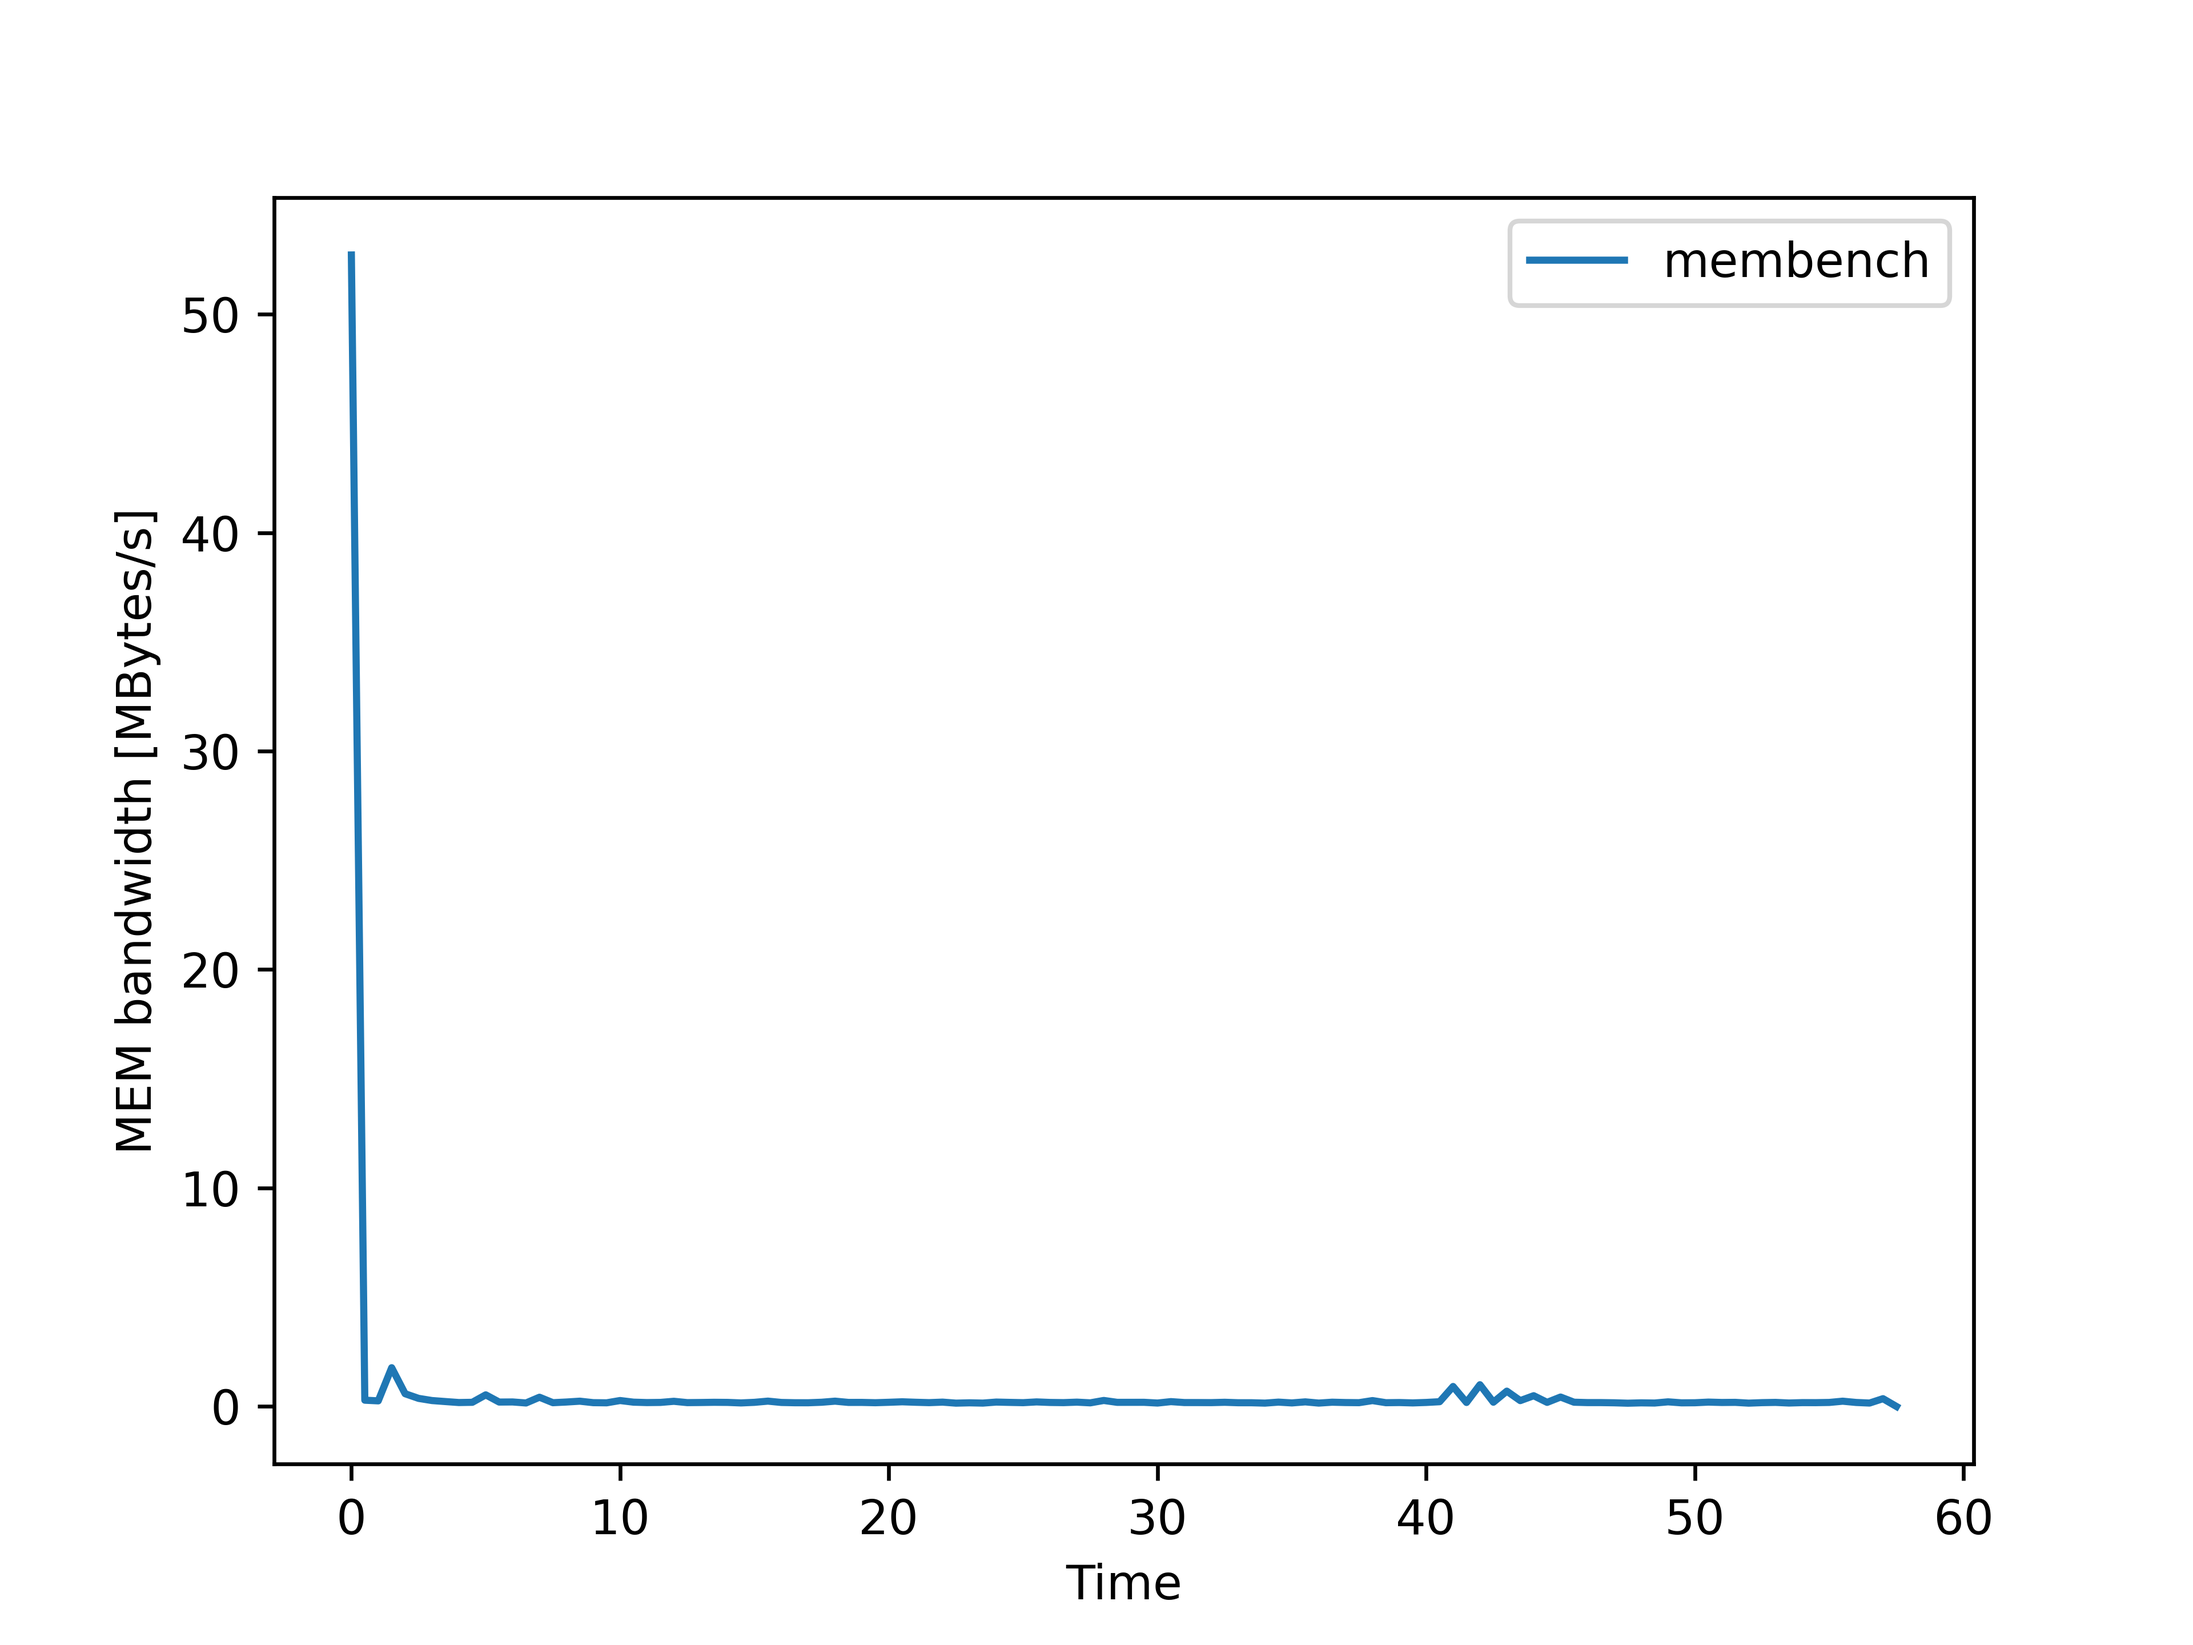
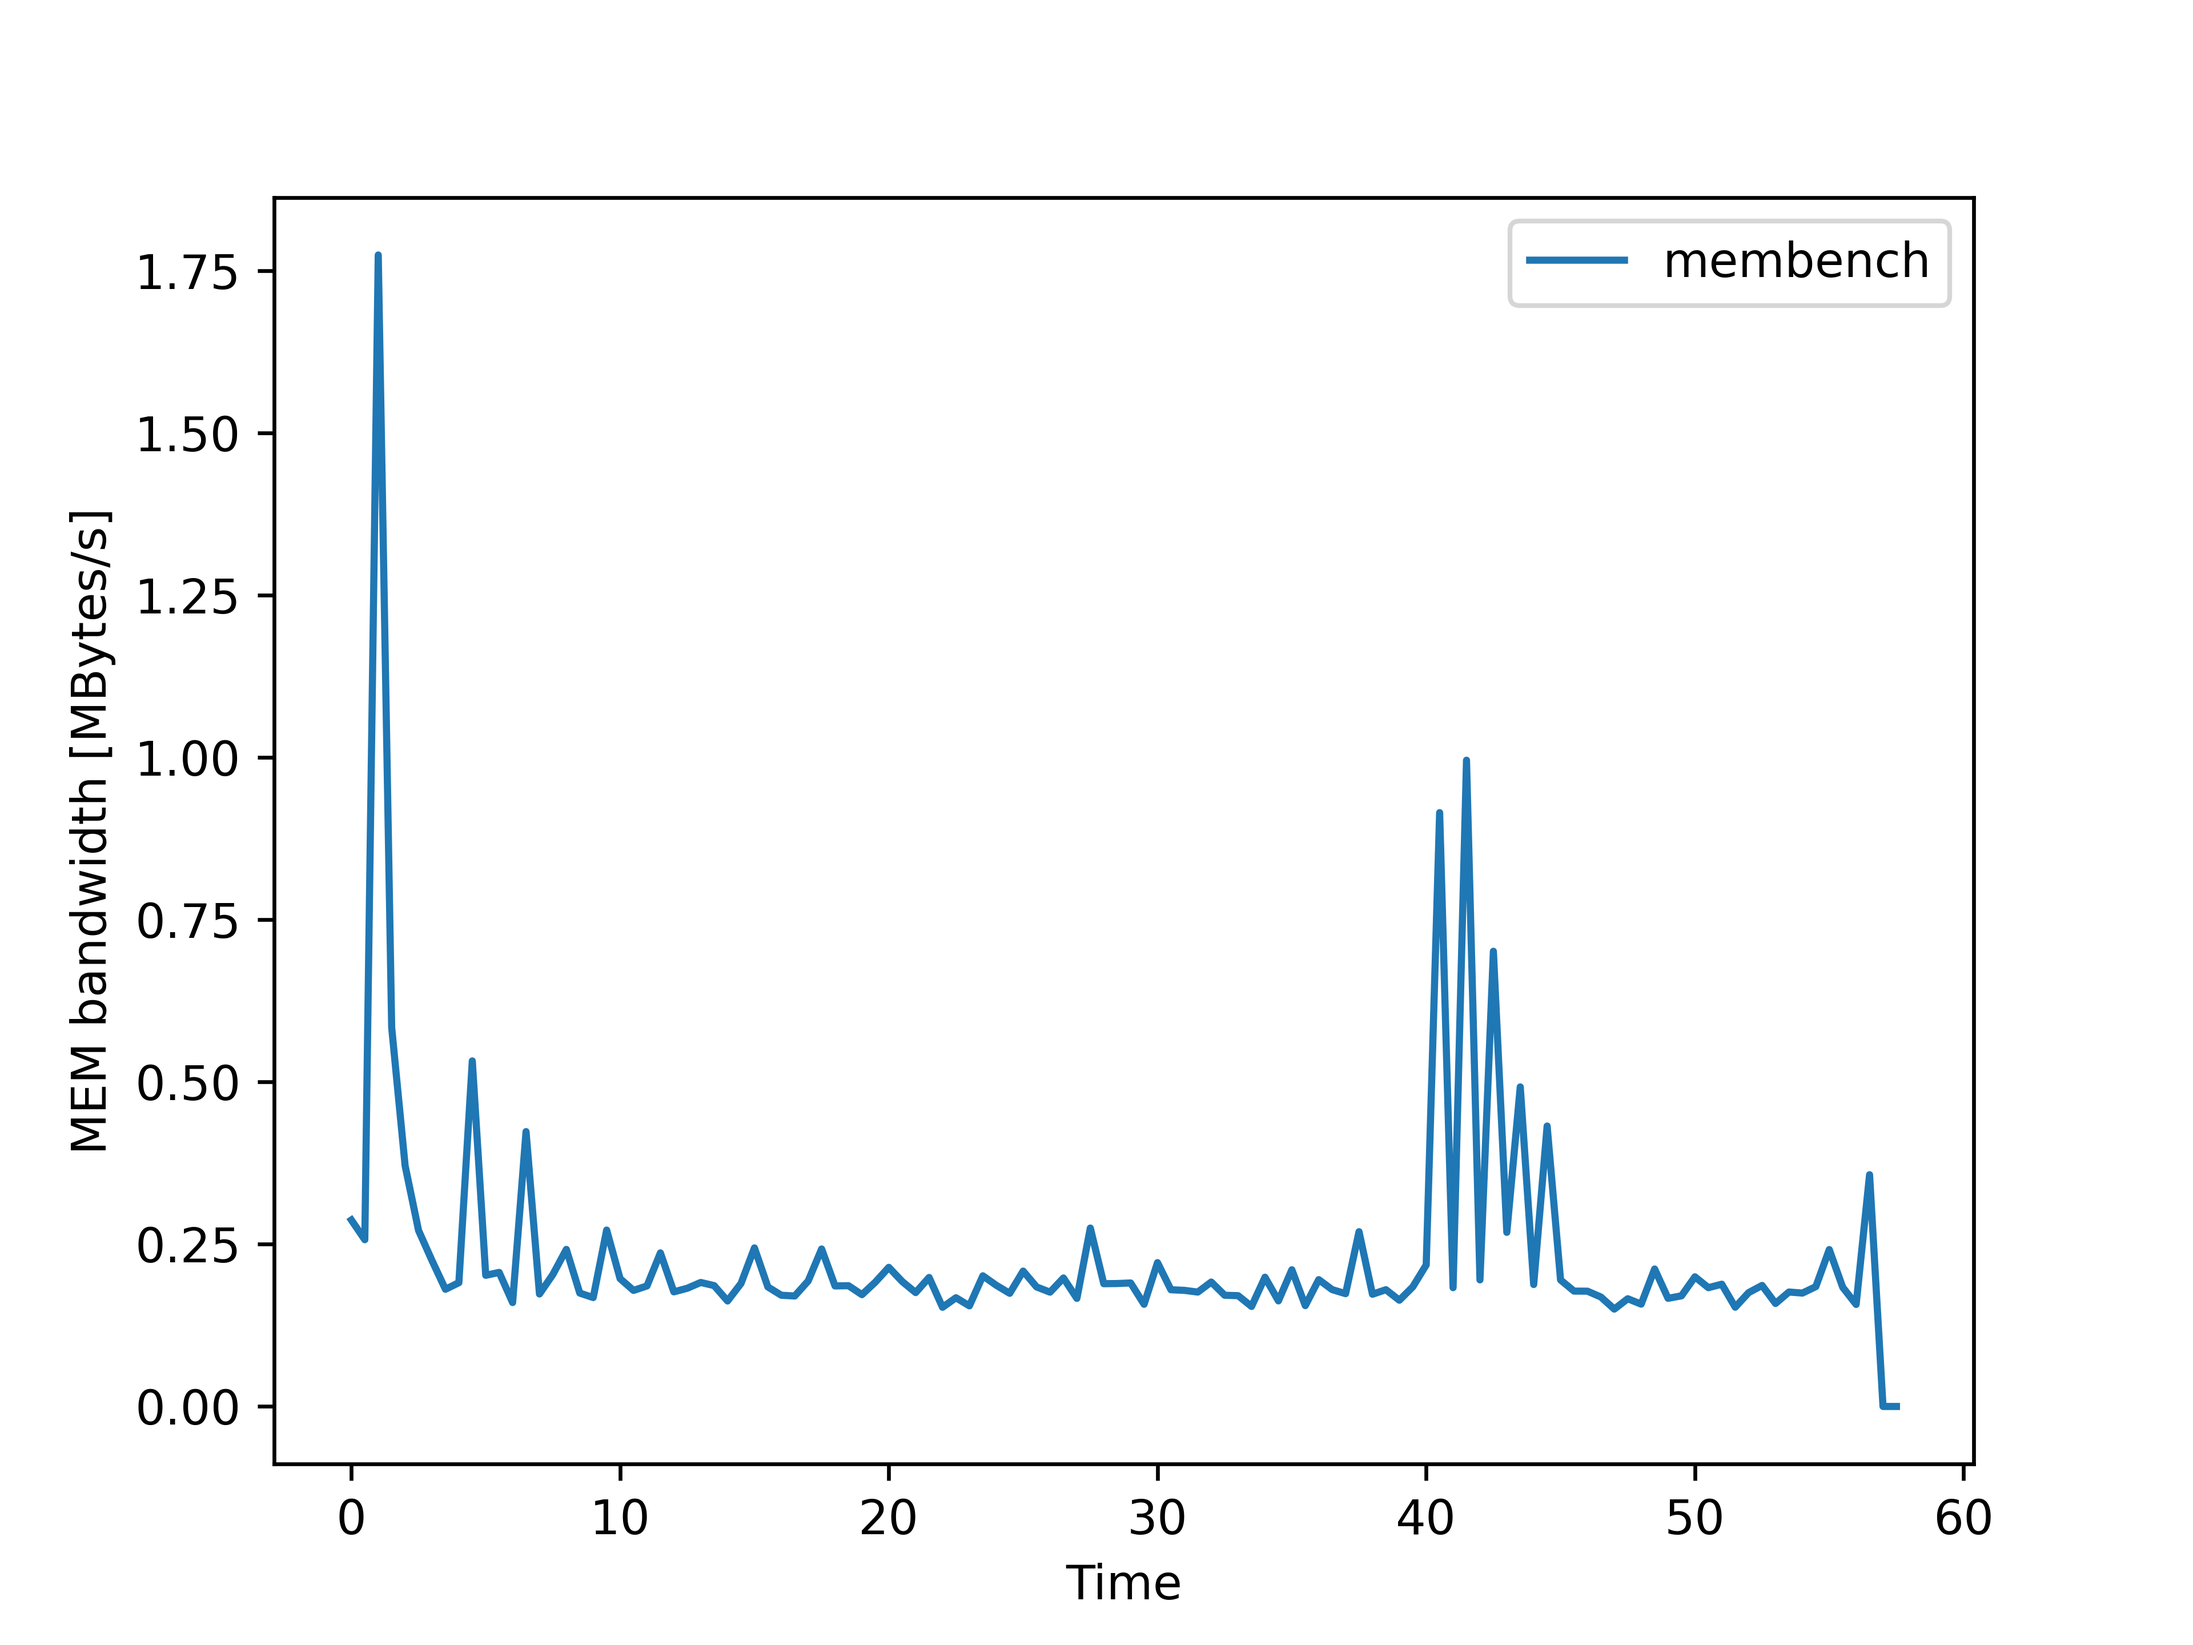
mod serial

diff --git a/test1_serial/dxt_src/plot_test.py b/test1_serial/dxt_src/plot_test.py
@@ -4,8 +4,8 @@ import sys
 
 from numpy.lib.function_base import append
 
-# TEST="MEM"
-TEST="L3"
+TEST="MEM"
+# TEST="L3"
 def RepresentsInt(s):
     try: 
         int(s)
